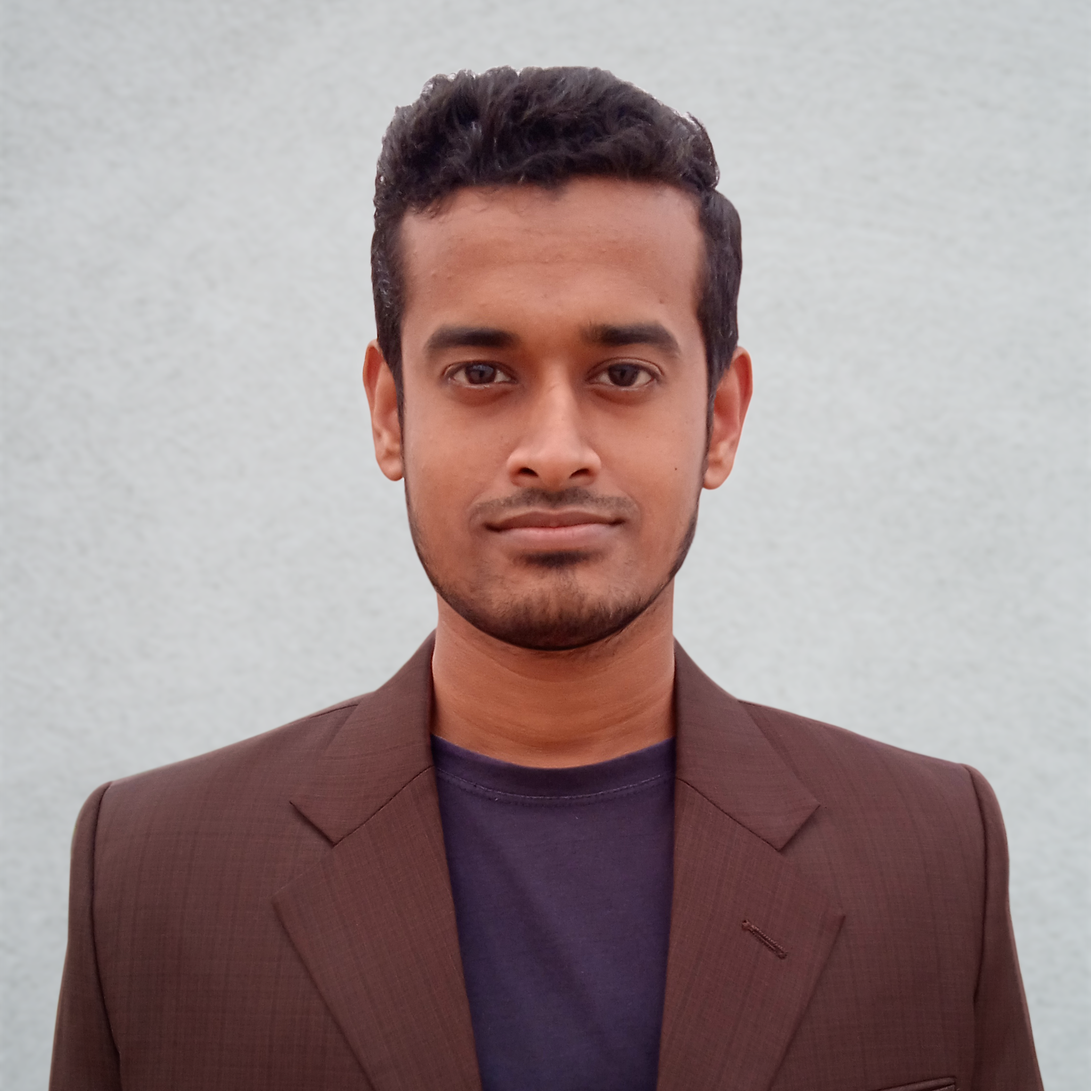
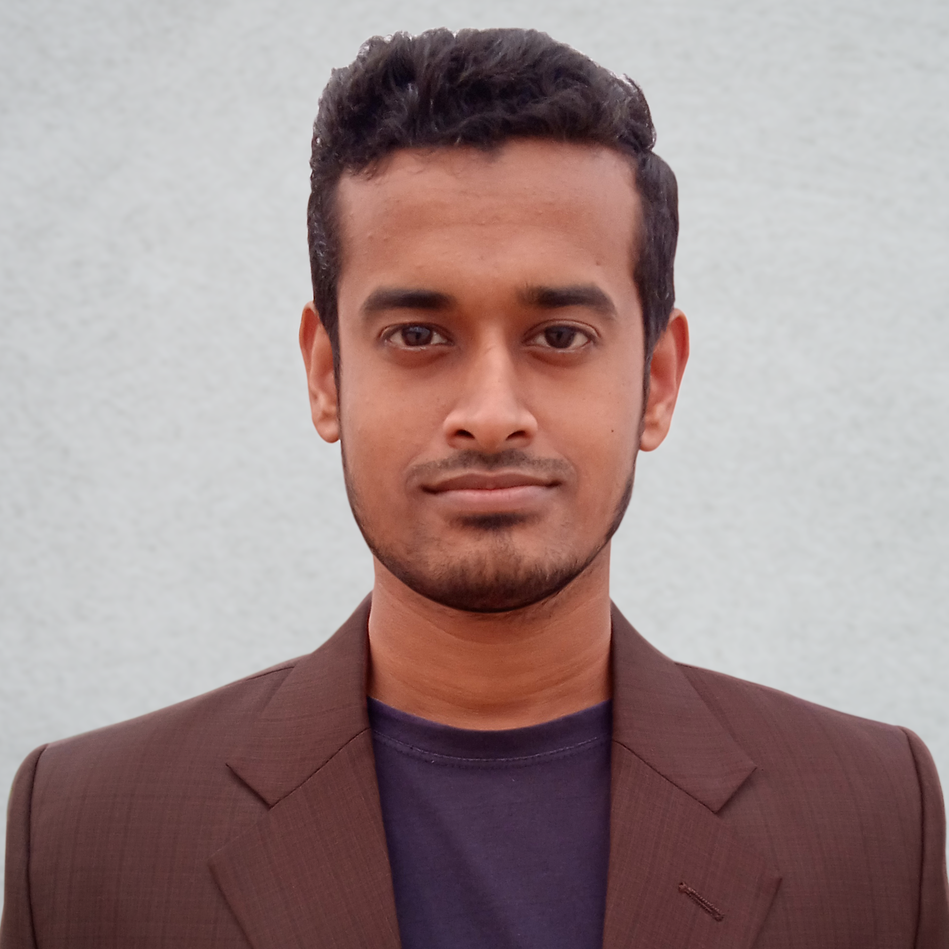
About section added

diff --git a/src/components/Navbar.js b/src/components/Navbar.js
@@ -1,5 +1,5 @@
 import React, { useState } from 'react';
-import {FaFacebookF, FaGithub, FaLinkedinIn, FaTwitter} from 'react-icons/fa';
+import {FaEnvelope, FaFacebookF, FaGithub, FaLinkedinIn, FaPhoneAlt, FaTwitter} from 'react-icons/fa';
 
 const Navbar = () => {
     const [isOpen, setIsOpen] = useState('');
@@ -32,10 +32,10 @@ const Navbar = () => {
                         }
                         <li className="social-links mt-10 lg:hidden">
                             <ul className='flex justify-center'>
-                                <li><a className='inline-block mx-5' href="http://facebook.com" target="_blank" rel="noopener noreferrer"><FaFacebookF className='text-white text-3xl hover:text-blue-600 duration-300 hover:-translate-y-1'/></a></li>
-                                <li><a className='inline-block mx-5' href="http://facebook.com" target="_blank" rel="noopener noreferrer"><FaLinkedinIn className='text-white text-3xl hover:text-blue-600 duration-300 hover:-translate-y-1'/></a></li>
-                                <li><a className='inline-block mx-5' href="http://facebook.com" target="_blank" rel="noopener noreferrer"><FaTwitter className='text-white text-3xl hover:text-blue-600 duration-300 hover:-translate-y-1'/></a></li>
-                                <li><a className='inline-block mx-5' href="http://facebook.com" target="_blank" rel="noopener noreferrer"><FaGithub className='text-white text-3xl hover:text-blue-600 duration-300 hover:-translate-y-1'/></a></li>
+                                <li><a className='inline-block mx-5' href="https://www.facebook.com/dev.nayan20" target="_blank" rel="noopener noreferrer"><FaFacebookF className='text-white text-3xl hover:text-blue-600 duration-300 hover:-translate-y-1'/></a></li>
+                                <li><a className='inline-block mx-5' href="https://www.linkedin.com/in/md-abdullah-nayan-711884220/" target="_blank" rel="noopener noreferrer"><FaLinkedinIn className='text-white text-3xl hover:text-blue-600 duration-300 hover:-translate-y-1'/></a></li>
+                                <li><a className='inline-block mx-5' href="https://twitter.com/dev_nayan1" target="_blank" rel="noopener noreferrer"><FaTwitter className='text-white text-3xl hover:text-blue-600 duration-300 hover:-translate-y-1'/></a></li>
+                                <li><a className='inline-block mx-5' href="https://github.com/technayan" target="_blank" rel="noopener noreferrer"><FaGithub className='text-white text-3xl hover:text-blue-600 duration-300 hover:-translate-y-1'/></a></li>
                             </ul>
                         </li>
                     </ul>

diff --git a/src/components/About.js b/src/components/About.js
@@ -1,0 +1,26 @@
+import React from 'react';
+import {FaFacebookF, FaGithub, FaLinkedinIn, FaTwitter} from 'react-icons/fa';
+
+import ProfileImg from '../dev_nayan.png';
+import SectionTitle from '../Shared/SectionTitle';
+
+const About = () => {
+    return (
+        <section className='about-section py-14 bg-gray-900'>
+            <div className="container px-4 mx-auto">
+                <SectionTitle children={'About'} />
+                <img src={ProfileImg} className='mb-14 w-2/3 mx-auto border-4 border-blue-600' alt="Abdullah Nayan" />
+                <p className="about-text text-lg text-justify text-white">I am Abdullah Al Mamun Nayan, a professional and dedicated Jr. Web Developer with more than two years of experience in static website development. currently I am learning Full Stack Web Development. I love to learn new technologies, create websites and web applications. I want to build a successful career in the full stack development sector. Because, coding is my passion.</p>
+                
+                <ul className='flex justify-center mt-12'>
+                                <li><a className='inline-block mx-5' href="https://www.facebook.com/dev.nayan20" target="_blank" rel="noopener noreferrer"><FaFacebookF className='text-white text-3xl hover:text-blue-600 duration-300 hover:-translate-y-1'/></a></li>
+                                <li><a className='inline-block mx-5' href="https://www.linkedin.com/in/md-abdullah-nayan-711884220/" target="_blank" rel="noopener noreferrer"><FaLinkedinIn className='text-white text-3xl hover:text-blue-600 duration-300 hover:-translate-y-1'/></a></li>
+                                <li><a className='inline-block mx-5' href="https://twitter.com/dev_nayan1" target="_blank" rel="noopener noreferrer"><FaTwitter className='text-white text-3xl hover:text-blue-600 duration-300 hover:-translate-y-1'/></a></li>
+                                <li><a className='inline-block mx-5' href="https://github.com/technayan" target="_blank" rel="noopener noreferrer"><FaGithub className='text-white text-3xl hover:text-blue-600 duration-300 hover:-translate-y-1'/></a></li>
+                </ul>
+            </div>
+        </section>
+    );
+};
+
+export default About;

diff --git a/src/components/Hero.js b/src/components/Hero.js
@@ -9,12 +9,11 @@ const Hero = () => {
                 <div className="hero-text text-white py-40">
                     <h5 className=' text-xl mt-4'>I'm</h5>
                     <h1 className='font-bold text-5xl leading-tight my-3 uppercase'>Abdullah <span className='text-blue-600 font-bold'>Nayan</span></h1>
-                    <h3 className='text-2xl mt-3'>Web Developer</h3>
+                    <h3 className='text-2xl mt-3'>Jr. Web Developer</h3>
                     <p className='my-4 text-lg'>I am a professional web developer with more than two years of experince. Currently I love to work on web application using React JS, Node JS, Express JS, MonogDB, and Bootstrap or Tailwind.</p>
                     {/* Hero Button */}
                     <PrimaryBtn children={"Resume"}/>
                 </div>
-                
             </div>
         </section>
     );

diff --git a/src/index.css b/src/index.css
@@ -1,5 +1,5 @@
 /* Fonts */
-@import url('https://fonts.googleapis.com/css2?family=Raleway:wght@400;500;700&display=swap');
+@import url('https://fonts.googleapis.com/css2?family=Montserrat:wght@400;500;700&display=swap');
 @import url('https://fonts.googleapis.com/css2?family=Euphoria+Script&display=swap');
 
 /* TailwindCSS directives */
@@ -9,7 +9,7 @@
 
 @layer base {
   html {
-    font-family: 'Raleway', sans-serif;
+    font-family: 'Montserrat', sans-serif;
   }
   body {
     background: #252525;

diff --git a/src/Shared/PrimaryBtn.js b/src/Shared/PrimaryBtn.js
@@ -3,7 +3,7 @@ import './PrimayBtn.css';
 
 const PrimaryBtn = ({children}) => {
     return (
-        <a href='/resume' className='primary-btn px-7 py-2 mr-5 border-2 border-blue-600 inline-block mt-10 font-medium text-lg relative z-10 overflow-hidden'>{children}</a>
+        <a href='/resume' className='primary-btn px-8 py-2 mr-5 border-2 border-blue-600 inline-block mt-10 font-medium text-lg relative z-10 overflow-hidden'>{children}</a>
     );
 };
 

diff --git a/src/Shared/SectionTitle.js b/src/Shared/SectionTitle.js
@@ -1,0 +1,9 @@
+import React from 'react';
+
+const SectionTitle = ({children}) => {
+    return (
+        <h2 className='text-4xl text-white font-bold mb-14 relative inline-block after:absolute after:content[""] after:w-10 after:h-1 after:bg-blue-600 after:-bottom-1 after:-left-0'>{children}</h2>
+    );
+};
+
+export default SectionTitle;

diff --git a/src/App.js b/src/App.js
@@ -1,4 +1,5 @@
 import './App.css';
+import About from './components/About';
 import Hero from './components/Hero';
 import Navbar from './components/Navbar';
 
@@ -7,6 +8,7 @@ function App() {
     <div className="App">
       <Navbar />
       <Hero />
+      <About />
     </div>
   );
 }
